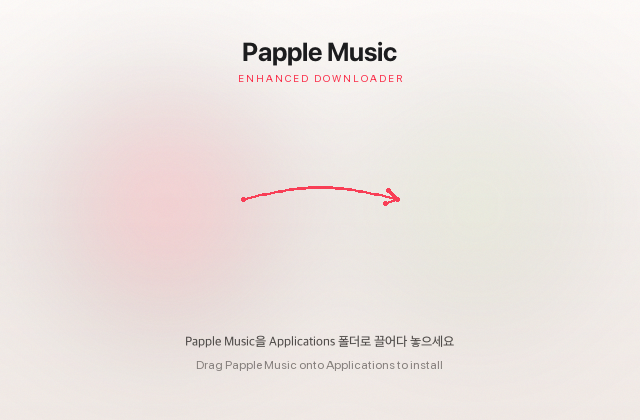
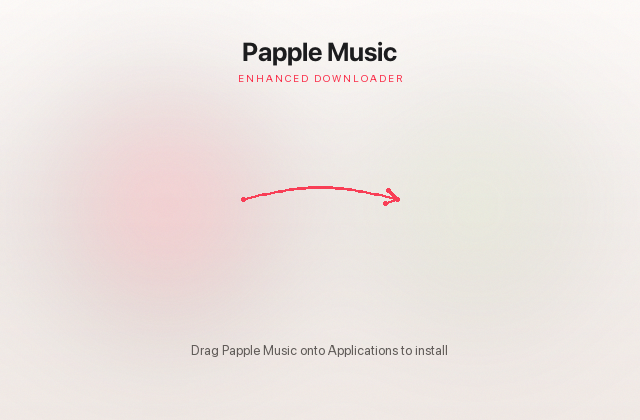
Disk image: English-only instructions

Changed region(s): [[0.2812, 0.8048, 0.7188, 0.8976]]

diff --git a/packaging/macos/dmg/make-background.py b/packaging/macos/dmg/make-background.py
@@ -17,12 +17,11 @@ RED = (250, 45, 72)
 
 DISPLAY = "/Library/Fonts/SF-Pro-Display-Bold.otf"
 TEXT = "/System/Library/Fonts/SFNS.ttf"
-KOREAN = "/System/Library/Fonts/AppleSDGothicNeo.ttc"
 
 
-def font(path: str, size: float, index: int = 0) -> ImageFont.FreeTypeFont:
+def font(path: str, size: float) -> ImageFont.FreeTypeFont:
     try:
-        return ImageFont.truetype(path, round(size), index=index)
+        return ImageFont.truetype(path, round(size))
     except OSError:
         return ImageFont.truetype(TEXT, round(size))
 
@@ -82,10 +81,8 @@ def draw(scale: int) -> Image.Image:
 
     # Instructions under the icons and their labels.
     d = ImageDraw.Draw(img)
-    d.text((s(W / 2), s(342)), "Papple Music을 Applications 폴더로 끌어다 놓으세요",
-           font=font(KOREAN, s(13), index=2), fill=(80, 76, 74), anchor="mm")
-    d.text((s(W / 2), s(364)), "Drag Papple Music onto Applications to install",
-           font=font(TEXT, s(12)), fill=(134, 128, 125), anchor="mm")
+    d.text((s(W / 2), s(350)), "Drag Papple Music onto Applications to install",
+           font=font(TEXT, s(13)), fill=(96, 91, 88), anchor="mm")
     # A touch of noise so the soft glows don't band.
     arr = np.asarray(img.convert("RGB")).astype(np.float32)
     arr += np.random.default_rng(7).uniform(-1.5, 1.5, arr.shape)
